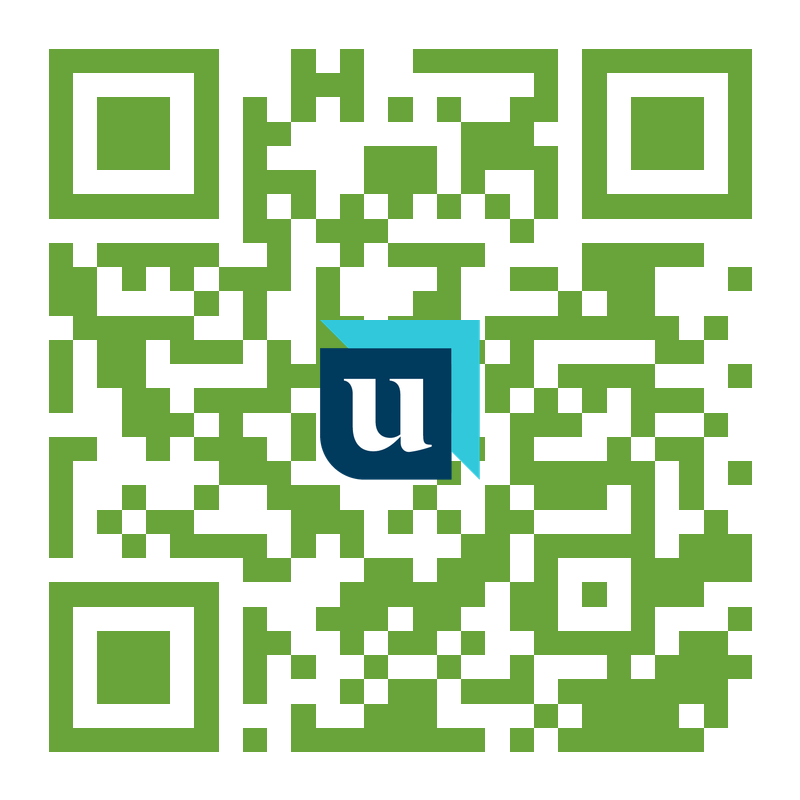
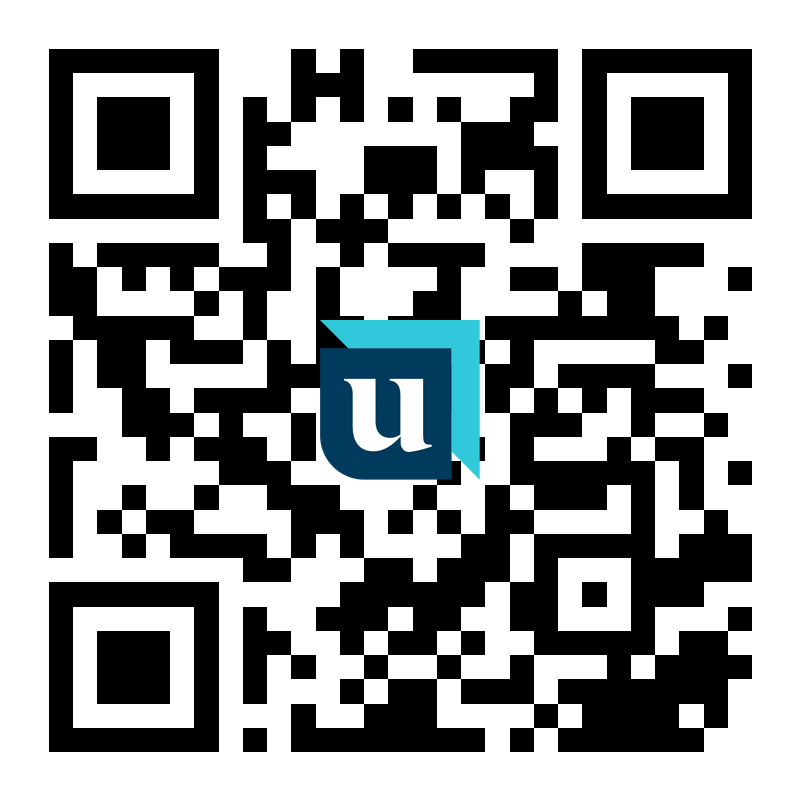
qr black

diff --git a/generate-qr.js b/generate-qr.js
@@ -25,7 +25,7 @@ const logoPath = path.join(process.cwd(), "public/upperline-mark.png");
     const qrBuffer = await QRCode.toBuffer(url, {
       width: 800,
       margin: 2,
-      color: { dark: "#69a43a", light: "#ffffff" }, // Upperline navy on white
+      color: { dark: "#000000", light: "#ffffff" }, // Upperline navy on white
     });
 
     // 2) Determine QR size, compute logo size (~20% of QR width)
